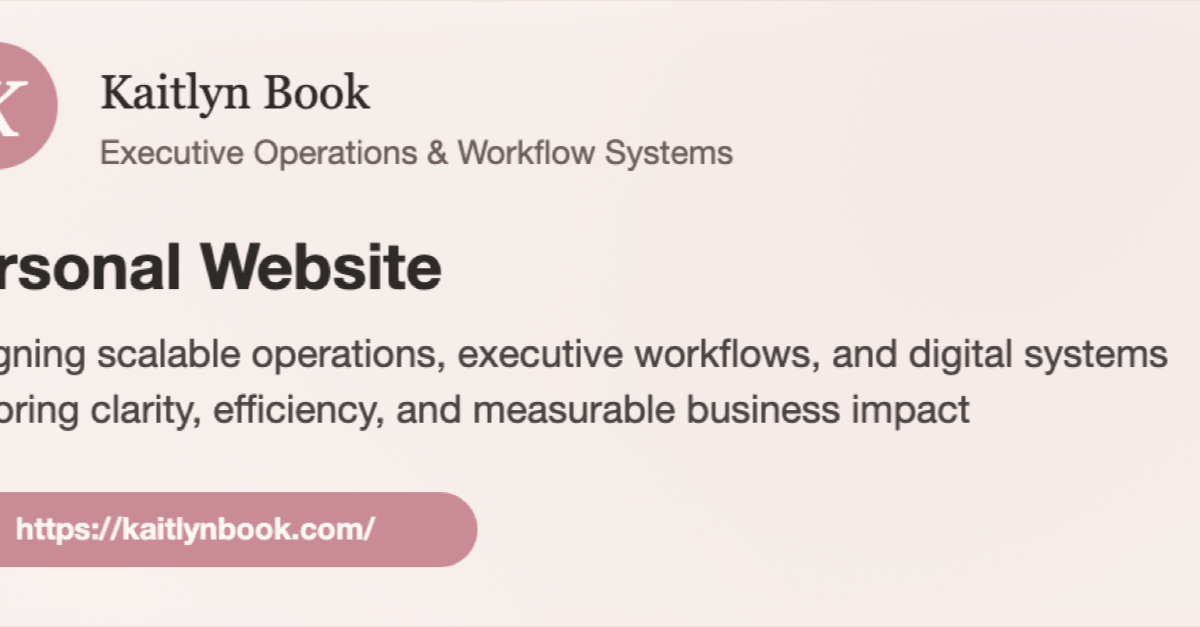
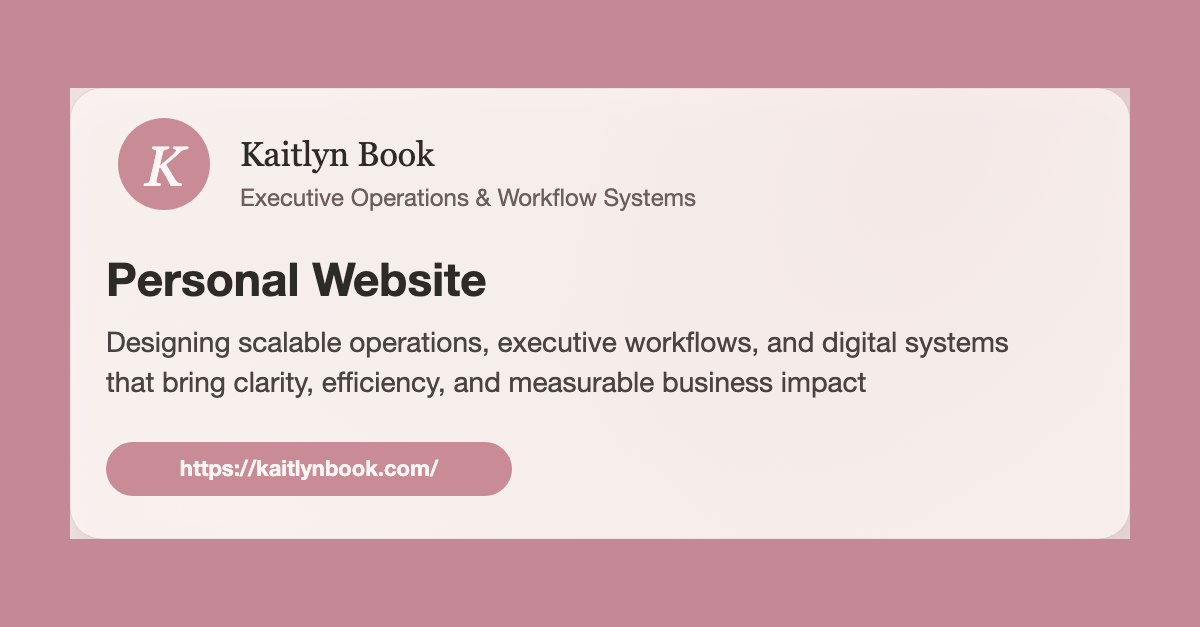
Replace homepage headshot and update standalone LinkedIn PNG exports

diff --git a/src/content/siteContent.ts b/src/content/siteContent.ts
@@ -38,7 +38,7 @@ export const siteContent = {
   },
   // REPLACE THIS WITH YOUR INFO
   photos: {
-    headshot: "/images/headshot.jpg",
+    headshot: "/images/new.headshot.jpg",
     gallery: [
       "/images/gallery-1.jpg",
       "/images/gallery-2.jpg",
